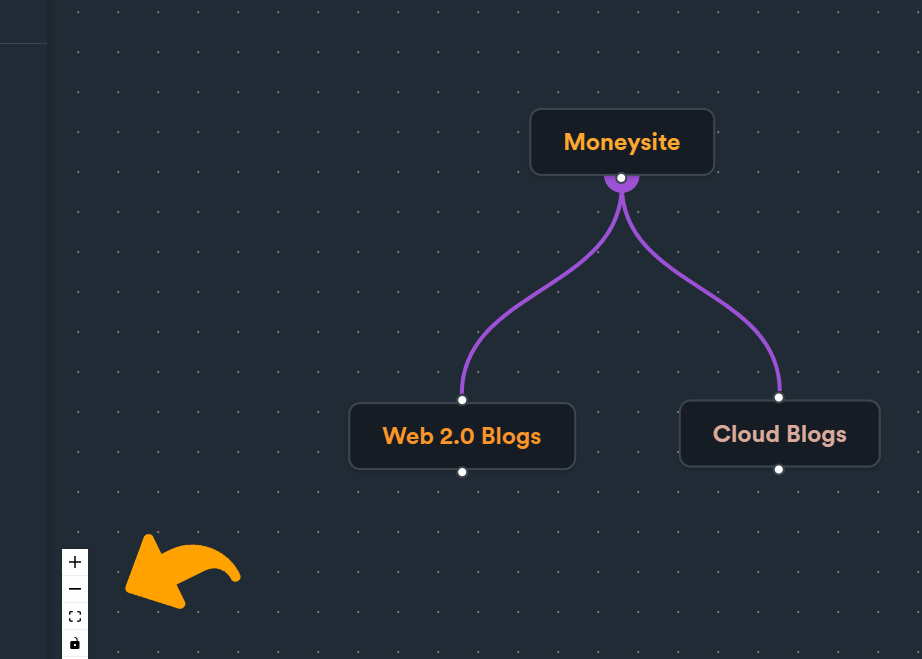
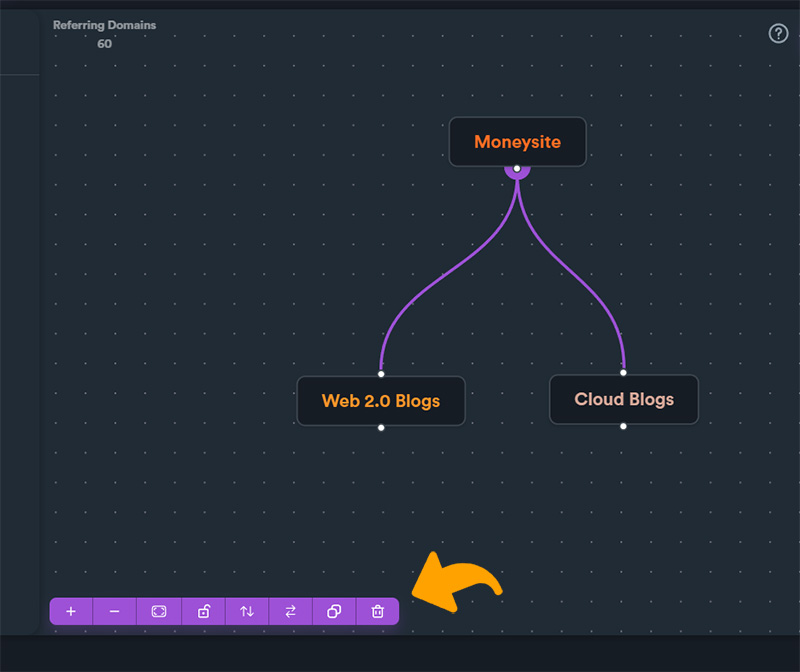
GITBOOK-131: change request with no subject merged in GitBook

diff --git a/documentation/diagram-editor/diagram-editor-controls.md b/documentation/diagram-editor/diagram-editor-controls.md
@@ -10,18 +10,18 @@ Here is a small description of each tool functionality:
 
 <div align="left">
 
-<figure><img src="../../.gitbook/assets/diagram editor toolbar.jpg" alt=""><figcaption></figcaption></figure>
+<figure><img src="../../.gitbook/assets/diagram tools.jpg" alt=""><figcaption></figcaption></figure>
 
 </div>
 
-
-
-| Tool / Button            | Description                                                                                                              |
-| ------------------------ | ------------------------------------------------------------------------------------------------------------------------ |
-| **Zoom in / zoom out**   | diagram zoom                                                                                                             |
-| **Fit view**             | automatically fits whole diagram on screen to fit whole view                                                             |
-| **Interactivity toggle** | you can toggle interactivity on/off. When you turn off interactivity, you cannot move any nodes or connection on diagram |
-| **Delete**               | deletes selected group nodes or selected connections (same as "**delete**" / "**backspace**" keys)                       |
+| Tool / Button                       | Description                                                                                                           |
+| ----------------------------------- | --------------------------------------------------------------------------------------------------------------------- |
+| **Zoom in / zoom out**              | diagram zoom                                                                                                          |
+| **Fit view**                        | automatically fits whole diagram on screen to fit whole view                                                          |
+| **Lock \ Unlock diagram**           | You can toggle diagram lock on/off. When you turn off lock, you cannot move any nodes or connection on diagram        |
+| **Align Horizontally \ Vertically** | You can select **multiple** link groups together and **align** selected groups in horizontal or vertical arrangement. |
+| **Duplicate**                       | Duplicate selected groups including their conenctions.                                                                |
+| **Delete**                          | deletes selected group nodes or selected connections (same as "**delete**" / "**backspace**" keys)                    |
 
 
 

diff --git a/documentation/diagram-editor/README.md b/documentation/diagram-editor/README.md
@@ -4,13 +4,13 @@
 
 As the name implies, the diagram editor, is an editor you can use to create your own strategy diagrams. Although SEO Neo comes with a number of preinstalled strategy diagrams included, If you want to [create your own](creating-a-custom-diagram.md) custom diagram you can do it using the diagram Diagram Editor.
 
-<figure><img src="../../.gitbook/assets/diagram editor sections.jpg" alt=""><figcaption><p>Diagram editor sections overview</p></figcaption></figure>
+<figure><img src="../../.gitbook/assets/diagram editor overview.jpg" alt=""><figcaption><p>Diagram editor sections overview</p></figcaption></figure>
 
 1. **File menu**: Create or select a diagram
 2. **Diagram area**: where you create or edit your diagrams
 3. **Link group list**:  Drag and drop link group types into diagram to add new groups
 4. **Toolbar**: Save, delete diagram. You can also give your diagram a small description.
-5. **Navigation toolbar**: You can zoom-in, zoom-out, fit-view or lock diagram.
+5. **Toolbar**: Different diagram tools like: zoom-in, zoom-out, fit-view, lock diagram etc.
 
 ### What is a diagram ?
 

diff --git a/documentation/diagram-editor/creating-a-custom-diagram.md b/documentation/diagram-editor/creating-a-custom-diagram.md
@@ -2,7 +2,7 @@
 
 ### Creating a new diagram
 
-To create a custom diagram, click on "**Diagram Editor**" on main menu and then click "**Create**".
+To create a custom diagram, click on "**Diagram Editor**" **(1)** on main menu and then click "**Create**" **(2)**.
 
 <figure><img src="../../.gitbook/assets/create diagram.jpg" alt=""><figcaption></figcaption></figure>
 
@@ -18,7 +18,7 @@ To place new link groups, just drag and drop groups from groups list into diagra
 
 ### Connecting connections between groups
 
-To **create a link group**: drag and drop a group from link group list (3) into diagram area (2).
+To **create a link group**: drag and drop a group from link group list **(1)** into diagram area **(2)**.
 
 To **create connection** between link groups:&#x20;
 

diff --git a/documentation/diagram-editor/link-group-types.md b/documentation/diagram-editor/link-group-types.md
@@ -28,5 +28,6 @@ Below is the list for all supported link group types SEO Neo supports:
 | Profile Links         |
 | PDF Upload            |
 | URL Shorteners        |
+| Self Hosted Wordpress |
 
 Each link group types uses different content from **content buckets.** Mixing different group types together in different layers can make your link profile feel "more natural" to search engines.
